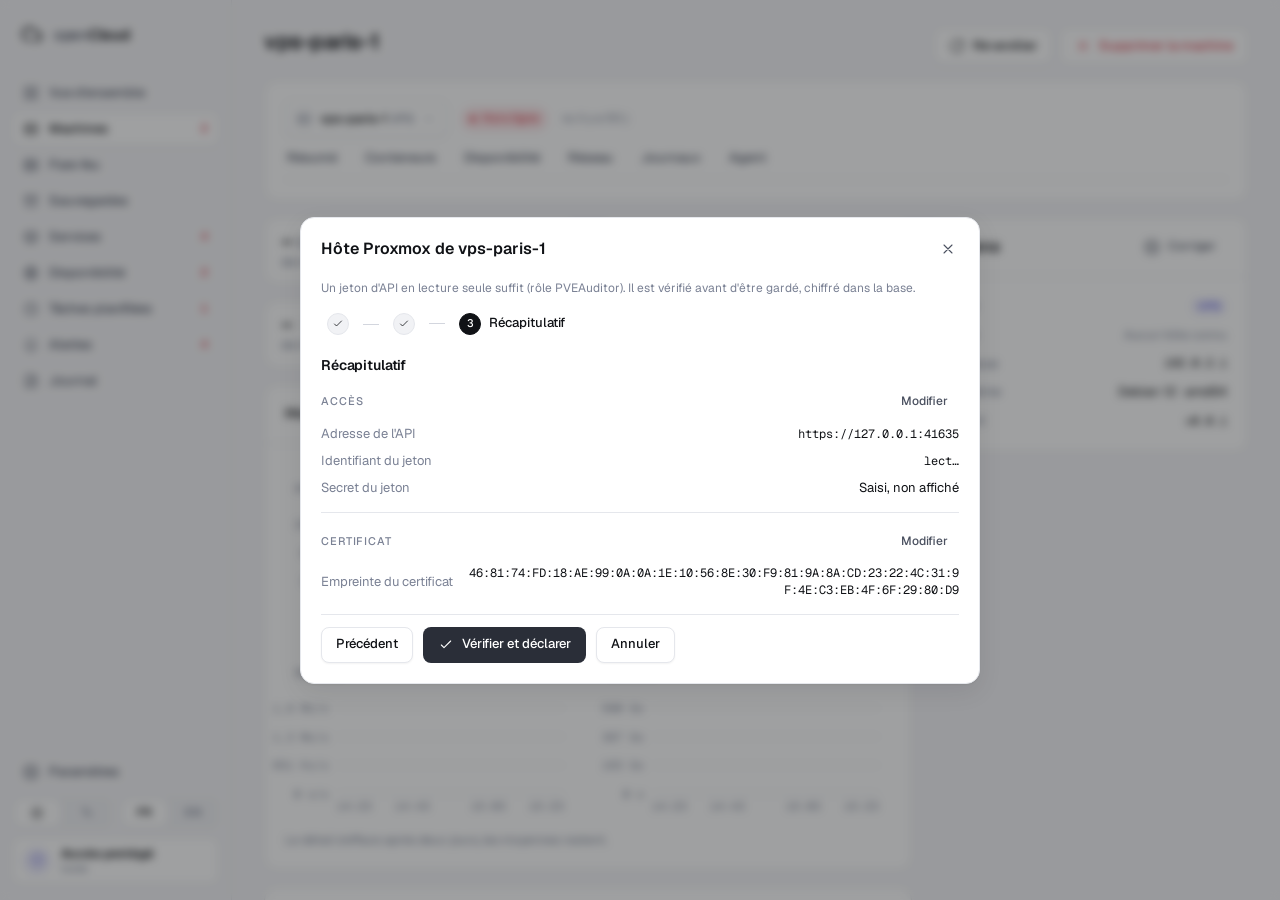
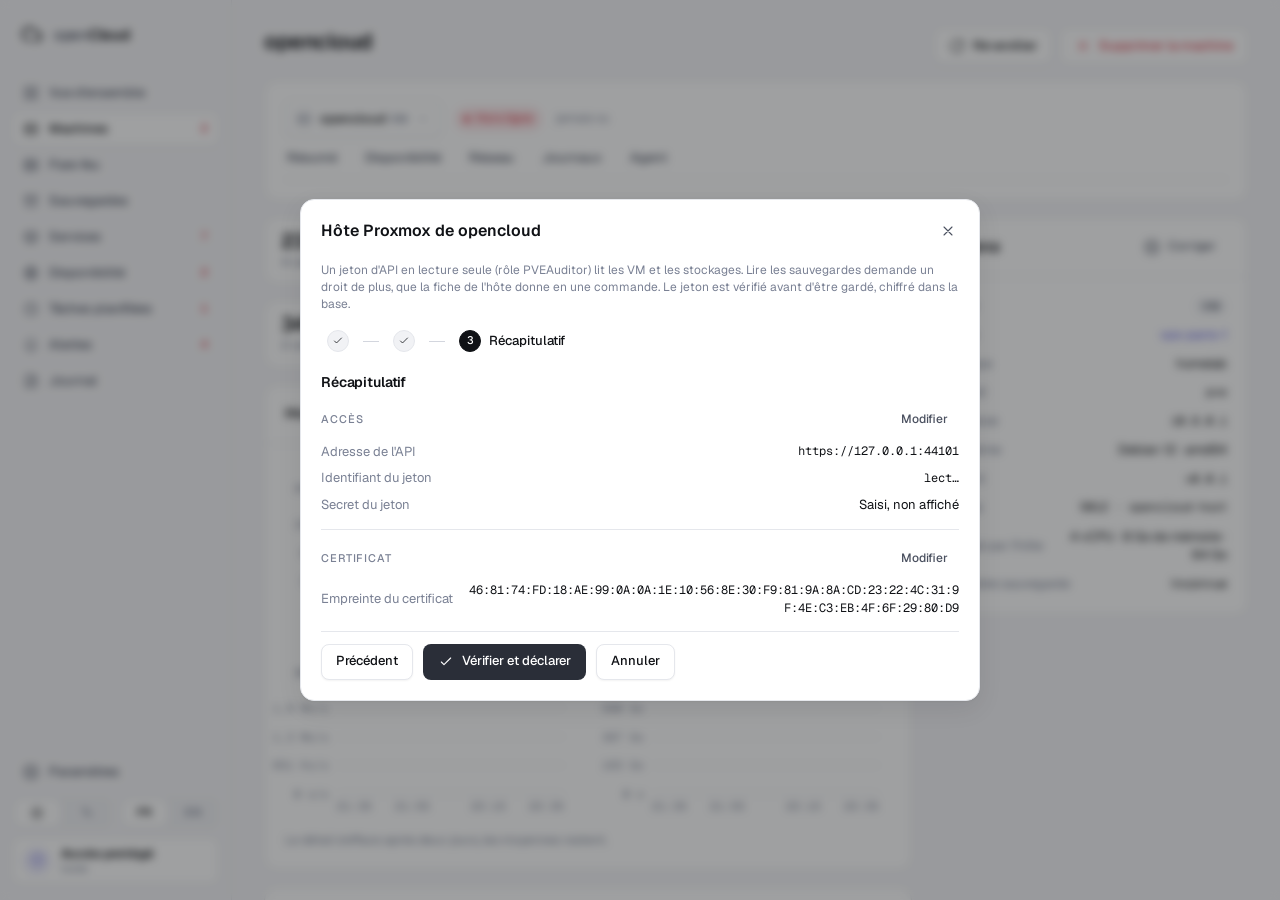
test(e2e): hyperviseur en cartes, second hôte déclaré par le parcours

diff --git a/web/e2e/p1-hyperviseur.spec.ts b/web/e2e/p1-hyperviseur.spec.ts
@@ -89,6 +89,13 @@ for (const theme of ["light", "dark"] as const) {
   test(`hyperviseur : jeton qui lit les archives, dernière sauvegarde de chaque VM, ${theme}`, async ({ page, findings }) => {
     await page.addInitScript((value) => localStorage.setItem("theme", value), theme);
     const suffix = theme === "light" ? "clair" : "sombre";
+    // Le second hôte : celui de l'hôte déjà déclaré, relu avec le jeton « !complet »,
+    // qui lit aussi les archives. Il est retiré à la fin : l'état est rendu tel quel.
+    const answer = (await (await page.request.get("/api/machines")).json()) as { machines: MachineRef[] };
+    const remote = answer.machines.find((machine) => machine.id !== "local");
+    const declared = (await (await page.request.get(`/api/machines/${remote?.id ?? ""}/proxmox`)).json()) as { api_url: string; pin: string };
+    const put = await page.request.put("/api/machines/local/proxmox", { data: { api_url: declared.api_url, token_id: "lecteur@pve!complet", token_secret: "0a1b2c3d-4e5f-6071-8293-a4b5c6d7e8f9", pin: declared.pin } });
+    expect(put.ok()).toBe(true);
     findings.where = "/machines/local/hyperviseur";
     await page.goto(findings.where);
 
@@ -110,6 +117,8 @@ for (const theme of ["light", "dark"] as const) {
       mkdirSync(captureFolder, { recursive: true });
       await page.screenshot({ path: `${captureFolder}P1-hyperviseur-cartes-${suffix}.png`, fullPage: true });
     }
+    const removal = await page.request.post("/api/machines/local/actions/remove-proxmox", { headers: { "Content-Type": "application/json" }, data: {} });
+    expect(removal.status(), await removal.text()).toBe(204);
     expect(findings.unknown()).toEqual([]);
   });
 }

diff --git a/web/src/lib/machineTodo.test.ts b/web/src/lib/machineTodo.test.ts
@@ -80,3 +80,12 @@ test("un hôte déclaré dont le relevé échoue le dit, un hôte qui lit bien s
   expect(machineTodos(machine({ proxmox: { ...unrelatedProxmox, declared: true, last_error: "proxmox.unauthorized" } }), [], "v0.4.2")).toEqual([{ kind: "proxmox_read_failed", key: "proxmox.unauthorized" }]);
   expect(machineTodos(machine({ proxmox: { ...unrelatedProxmox, declared: true } }), [], "v0.4.2")).toEqual([]);
 });
+
+test("un hôte dont le jeton ne lit pas les sauvegardes le dit, avec ou sans relevé en échec", () => {
+  const blind = { ...unrelatedProxmox, declared: true, backup_blind: true };
+  expect(machineTodos(machine({ proxmox: blind }), [], "v0.4.2")).toEqual([{ kind: "proxmox_backup_blind" }]);
+  expect(machineTodos(machine({ proxmox: { ...blind, last_error: "proxmox.unreachable" } }), [], "v0.4.2")).toEqual([
+    { kind: "proxmox_read_failed", key: "proxmox.unreachable" },
+    { kind: "proxmox_backup_blind" },
+  ]);
+});

diff --git a/web/e2e/pare-feu-certificat.spec.ts b/web/e2e/pare-feu-certificat.spec.ts
@@ -134,10 +134,8 @@ for (const theme of ["light", "dark"] as const) {
     await page.addInitScript((value) => localStorage.setItem("theme", value), theme);
     const shoot = shooter(page, theme);
     const firewall = await declaredFirewall(page);
-    const machines = (await (await page.request.get("/api/machines")).json()) as { machines: { id: string }[] };
-    const id = machines.machines.find((machine) => machine.id !== "local")?.id ?? "";
-
-    await page.goto(`/machines/${id}/proxmox`);
+    // La machine openCloud : la distante porte déjà l'hôte garni des données fictives.
+    await page.goto("/machines/local/proxmox");
     const dialog = page.locator("dialog[open]");
     await expect(dialog).toBeVisible();
     const next = dialog.getByRole("button", { name: label("wizard.next"), exact: true });

diff --git a/web/e2e/machine-type.spec.ts b/web/e2e/machine-type.spec.ts
@@ -31,8 +31,8 @@ for (const theme of ["light", "dark"] as const) {
 
     await page.goto("/machines");
     await expect(page.locator("table .machine-kind").first()).toBeVisible();
-    await expect(page.locator("table").getByText(label("machine.kind_vm"), { exact: true })).toBeVisible();
-    await expect(page.locator("table").getByText(label("machine.kind_vps"), { exact: true })).toBeVisible();
+    await expect(page.locator("table").getByText(label("machine.kind_vm"), { exact: true }).first()).toBeVisible();
+    await expect(page.locator("table").getByText(label("machine.kind_vps"), { exact: true }).first()).toBeVisible();
     await shoot("machines-types");
 
     // La fiche de la machine distante : le bouton Supprimer sans puce, avec son infobulle.

diff --git a/internal/server/e2e_fixtures_test.go b/internal/server/e2e_fixtures_test.go
@@ -274,24 +274,19 @@ func seedE2ESystemd(t *testing.T, ts *testServer) {
 	}
 }
 
-// seedE2EProxmox déclare deux hôtes Proxmox garnis : celui de la machine
-// distante est lu avec un jeton PVEAuditor (les archives ne sont pas lisibles :
-// la fiche dit le droit qui manque, les VM disent « Inconnue »), celui de la
-// machine openCloud avec le droit de lecture des archives (les VM disent leur
-// dernière sauvegarde). La VM 5012 de la distante porte le nom d'hôte de la
-// machine openCloud : le rapprochement la lie.
+// seedE2EProxmox déclare un hôte Proxmox garni sur la machine distante, lu avec
+// un jeton PVEAuditor : les archives ne sont pas lisibles, la fiche dit le droit
+// qui manque, les VM disent « Inconnue ». Son jeton « !complet » (même secret
+// fictif) lit aussi les archives : le parcours s'en sert pour déclarer un second
+// hôte sur la machine openCloud. La VM 5012 porte le nom d'hôte de la machine
+// openCloud : le rapprochement la lie.
 func seedE2EProxmox(t *testing.T, ts *testServer) {
 	t.Helper()
 	wireProxmox(t, ts, slog.New(slog.NewTextHandler(io.Discard, nil)))
-	for _, host := range []struct {
-		machineID, linkedName string
-		auditor               bool
-	}{{remoteID, "opencloud-host", true}, {machine.LocalID, "docker1", false}} {
-		api := newFakeProxmox(t)
-		api.rich, api.auditor = true, host.auditor
-		api.setGuestName(host.linkedName)
-		if got := putProxmox(ts, host.machineID, api.request(pveTokenSecret)); got.Code != http.StatusOK {
-			t.Fatalf("proxmox %s: %d %s", host.machineID, got.Code, got.Body.String())
-		}
+	api := newFakeProxmox(t)
+	api.rich, api.auditor = true, true
+	api.setGuestName("opencloud-host")
+	if got := putProxmox(ts, remoteID, api.request(pveTokenSecret)); got.Code != http.StatusOK {
+		t.Fatalf("proxmox: %d %s", got.Code, got.Body.String())
 	}
 }

diff --git a/internal/server/api_proxmox_test.go b/internal/server/api_proxmox_test.go
@@ -23,9 +23,11 @@ import (
 )
 
 const (
-	pveID           = remoteID
-	dockerVMID      = "77777777-8888-4999-8aaa-bbbbbbbbbbbb"
-	pveTokenID      = "lecteur@pve!lecture"
+	pveID      = remoteID
+	dockerVMID = "77777777-8888-4999-8aaa-bbbbbbbbbbbb"
+	pveTokenID = "lecteur@pve!lecture"
+	// Le jeton qui lit aussi les archives, pour le parcours navigateur : même secret fictif.
+	pveFullTokenID  = "lecteur@pve!complet"
 	pveTokenSecret  = "0a1b2c3d-4e5f-6071-8293-a4b5c6d7e8f9" // gitleaks:allow -- faux secret de test
 	pveGoldenURL    = "https://pve.lan:8006"
 	pveGoldenPinHex = "abababababababababababababababababababababababababababababababab"
@@ -53,12 +55,13 @@ func newFakeProxmox(t *testing.T) *fakeProxmox {
 	t.Helper()
 	api := &fakeProxmox{}
 	api.Server = httptest.NewTLSServer(http.HandlerFunc(func(w http.ResponseWriter, r *http.Request) {
-		if r.Header.Get("Authorization") != "PVEAPIToken="+pveTokenID+"="+pveTokenSecret {
+		full := r.Header.Get("Authorization") == "PVEAPIToken="+pveFullTokenID+"="+pveTokenSecret
+		if !full && r.Header.Get("Authorization") != "PVEAPIToken="+pveTokenID+"="+pveTokenSecret {
 			http.Error(w, `{"data":null}`, http.StatusUnauthorized)
 			return
 		}
 		api.mu.Lock()
-		broken, auditor, rich := api.broken, api.auditor, api.rich
+		broken, auditor, rich := api.broken, api.auditor && !full, api.rich
 		runningName := api.runningName
 		api.mu.Unlock()
 		if runningName == "" {
